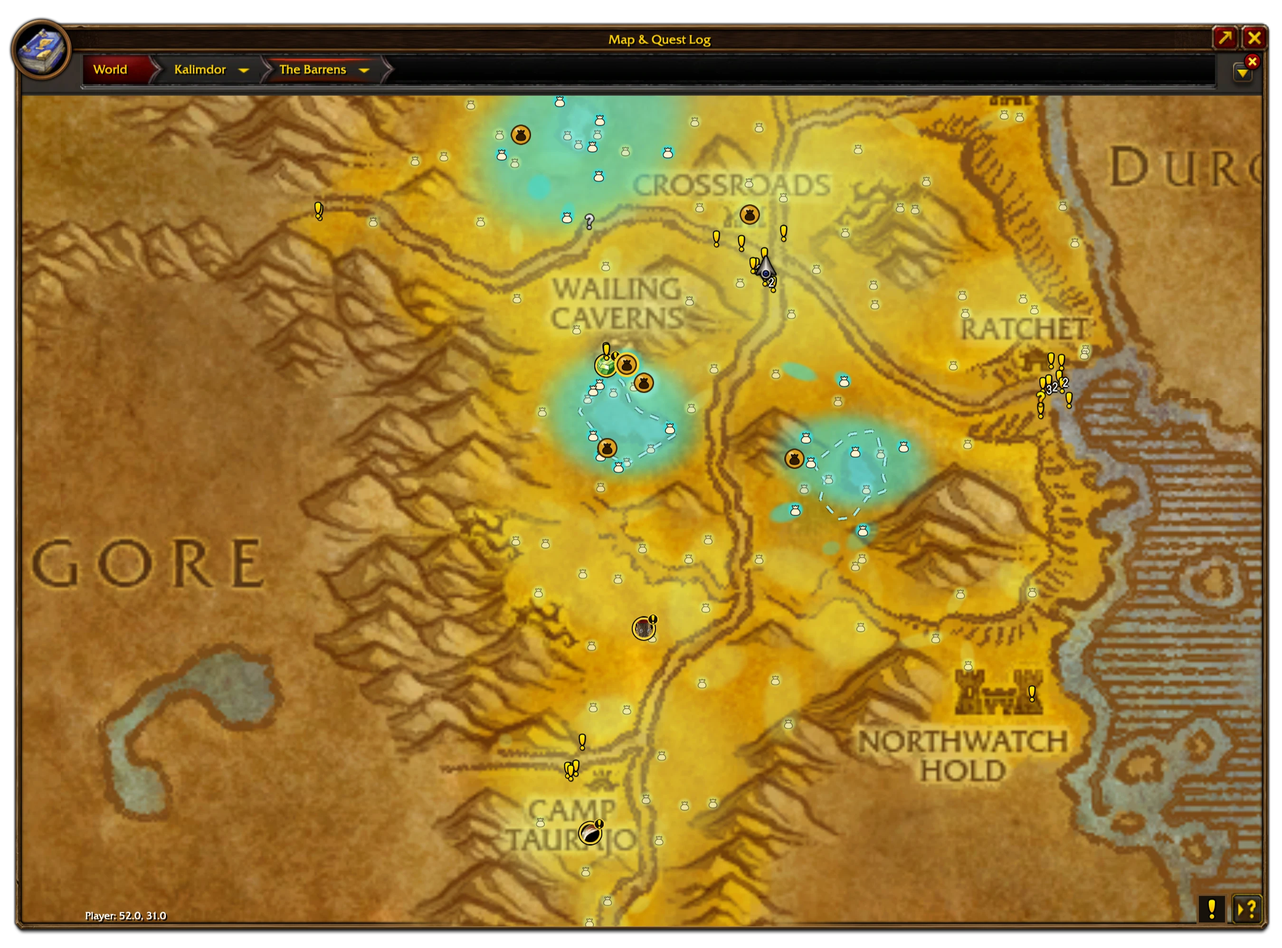
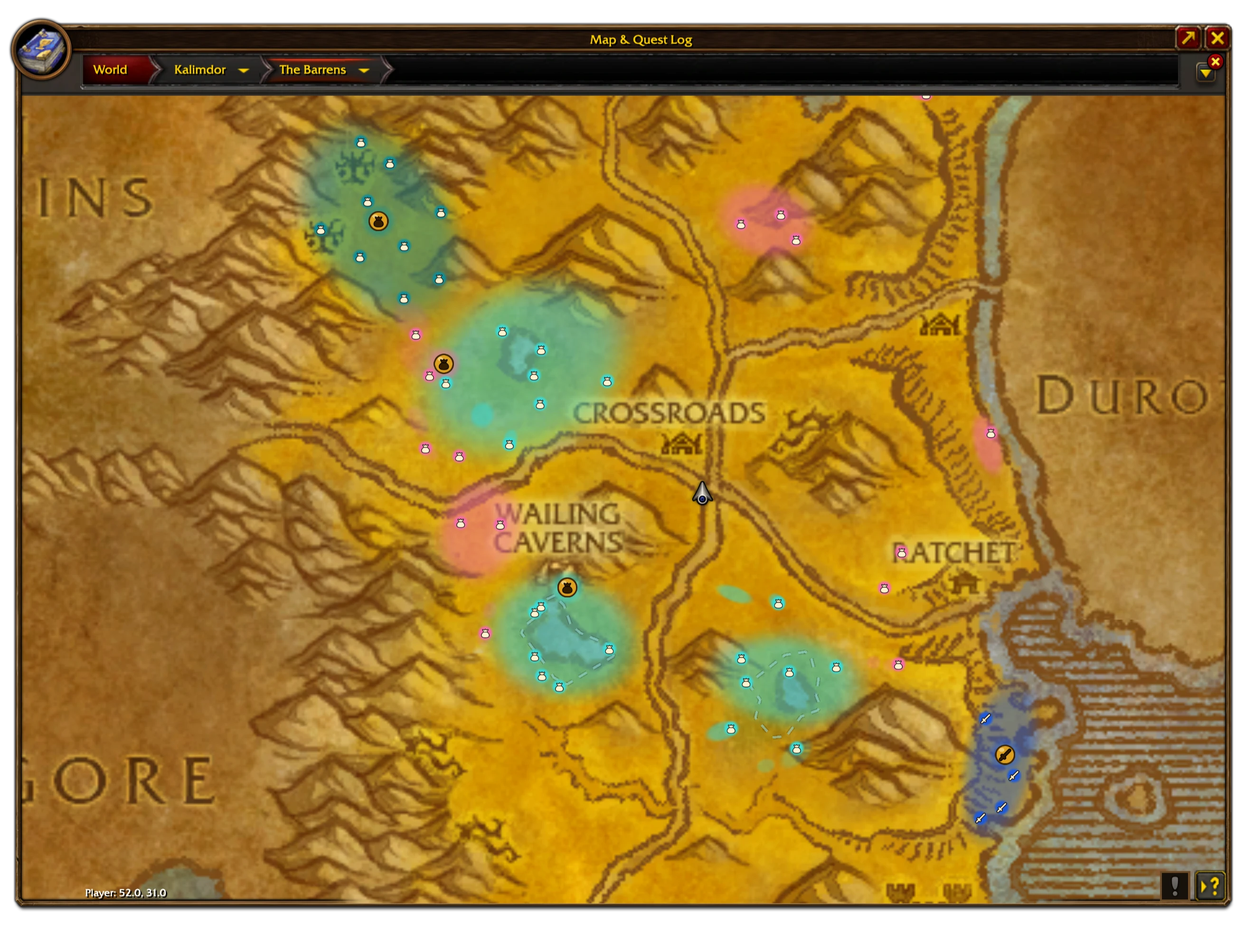
Product page: quest areas in their own colours, no numbered marks
The areas picture shows four quests round the Crossroads, each in its
colour with its spawn markers, the quest givers hidden. The copy no
longer speaks of numbered marks: the marks show what to do there.

diff --git a/addons/OneMoreQuest/README.md b/addons/OneMoreQuest/README.md
@@ -24,10 +24,11 @@ Made for **WoW: Forever**.
   5"), the quests it needs first and the ones it unlocks.
 - **The quest diagram.** A quest's whole chain as a tree: what comes before, what follows, where each quest
   stands for you.
-- **Map and minimap marks.** A numbered mark for each tracked quest's area, the givers of quests you can pick up,
-  and where each quest's creatures and items are, drawn as soft shadows, ovals or traced outlines.
-- **A tracker grouped by zone.** Numbered like the map's marks, with chain steps, clickable quest items, filters
-  for the quests here, ready or in focus, and a waypoint on the quest in focus (TomTom's arrow when you have it).
+- **Map and minimap marks.** A gold mark for each tracked quest showing what to do there (a sword, a sack, a
+  pointing hand, a speech bubble) and the game's "?" where it's ready to hand in, the givers of quests you can pick
+  up, and where each quest's creatures and items are, in a colour of its own: soft shadows, ovals or traced outlines.
+- **A tracker grouped by zone.** The same marks as the map's, with chain steps, clickable quest items, filters for
+  the quests here, ready or in focus, and a waypoint on the quest in focus (TomTom's arrow when you have it).
 - **Quests to pick up.** The Available tab lists everything you can pick up in a zone and what to do next: pick
   up now, opens from your log, opens after a pick-up, needs a level. Hide the quests you don't want to see.
 - **Dungeons.** Every dungeon with quests for you, by level: its way in, what to pick up before you go, what's
